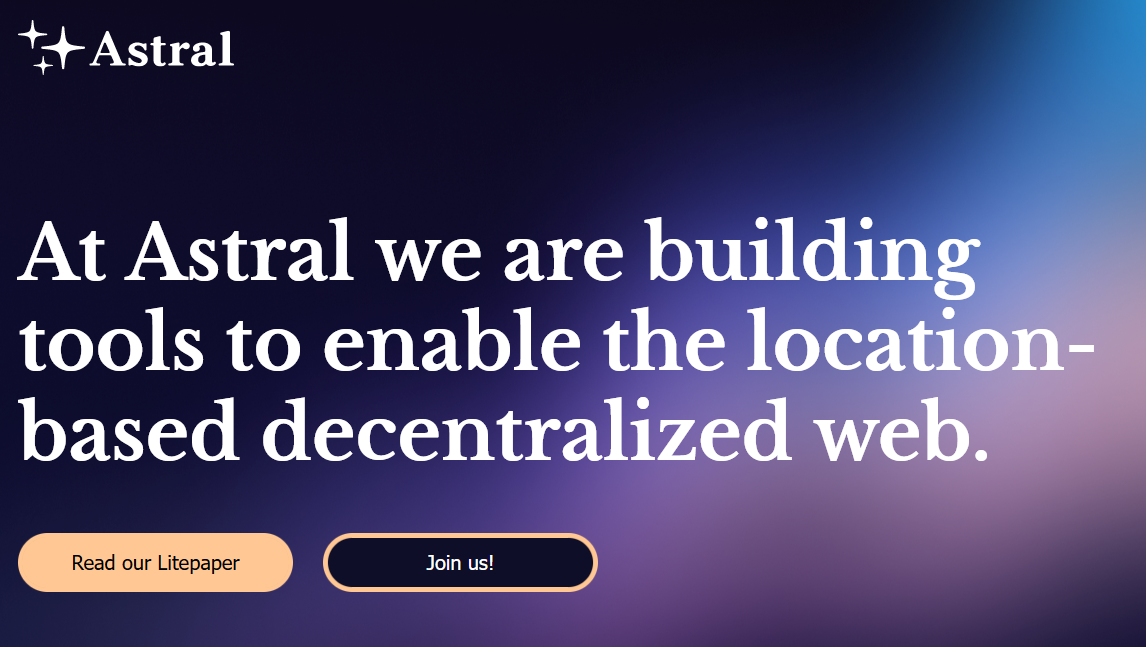
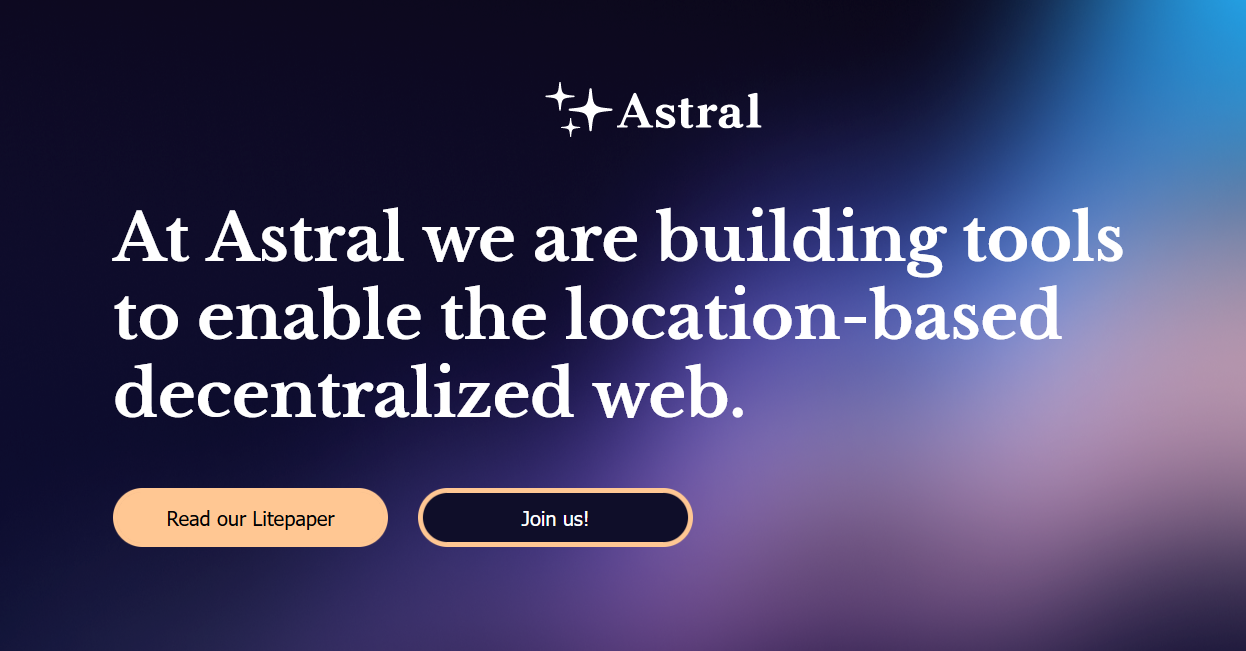
update preview image

diff --git a/src/components/Intro/Intro.jsx b/src/components/Intro/Intro.jsx
@@ -9,6 +9,13 @@ import "./Intro.scss"
 const Intro = () => {
   return (
     <MaxWidth size="m" className="Intro">
+      <Link className="Header__logo" to="/">
+        <img
+          className={classNames("Header__logo__container")}
+          src={require(`images/astral-logo.svg`).default}
+          alt="Logo"
+        />
+      </Link>
       <h1 className="Intro__header">
         At Astral we are building tools to enable the location-based
         decentralized web.

diff --git a/src/components/Intro/Intro.scss b/src/components/Intro/Intro.scss
@@ -1,5 +1,9 @@
 @import "../../styles/lib.scss";
 
+.Header__logo {
+  justify-content: flex-start !important;
+}
+
 .Intro {
   $header-height: 90px;
 
